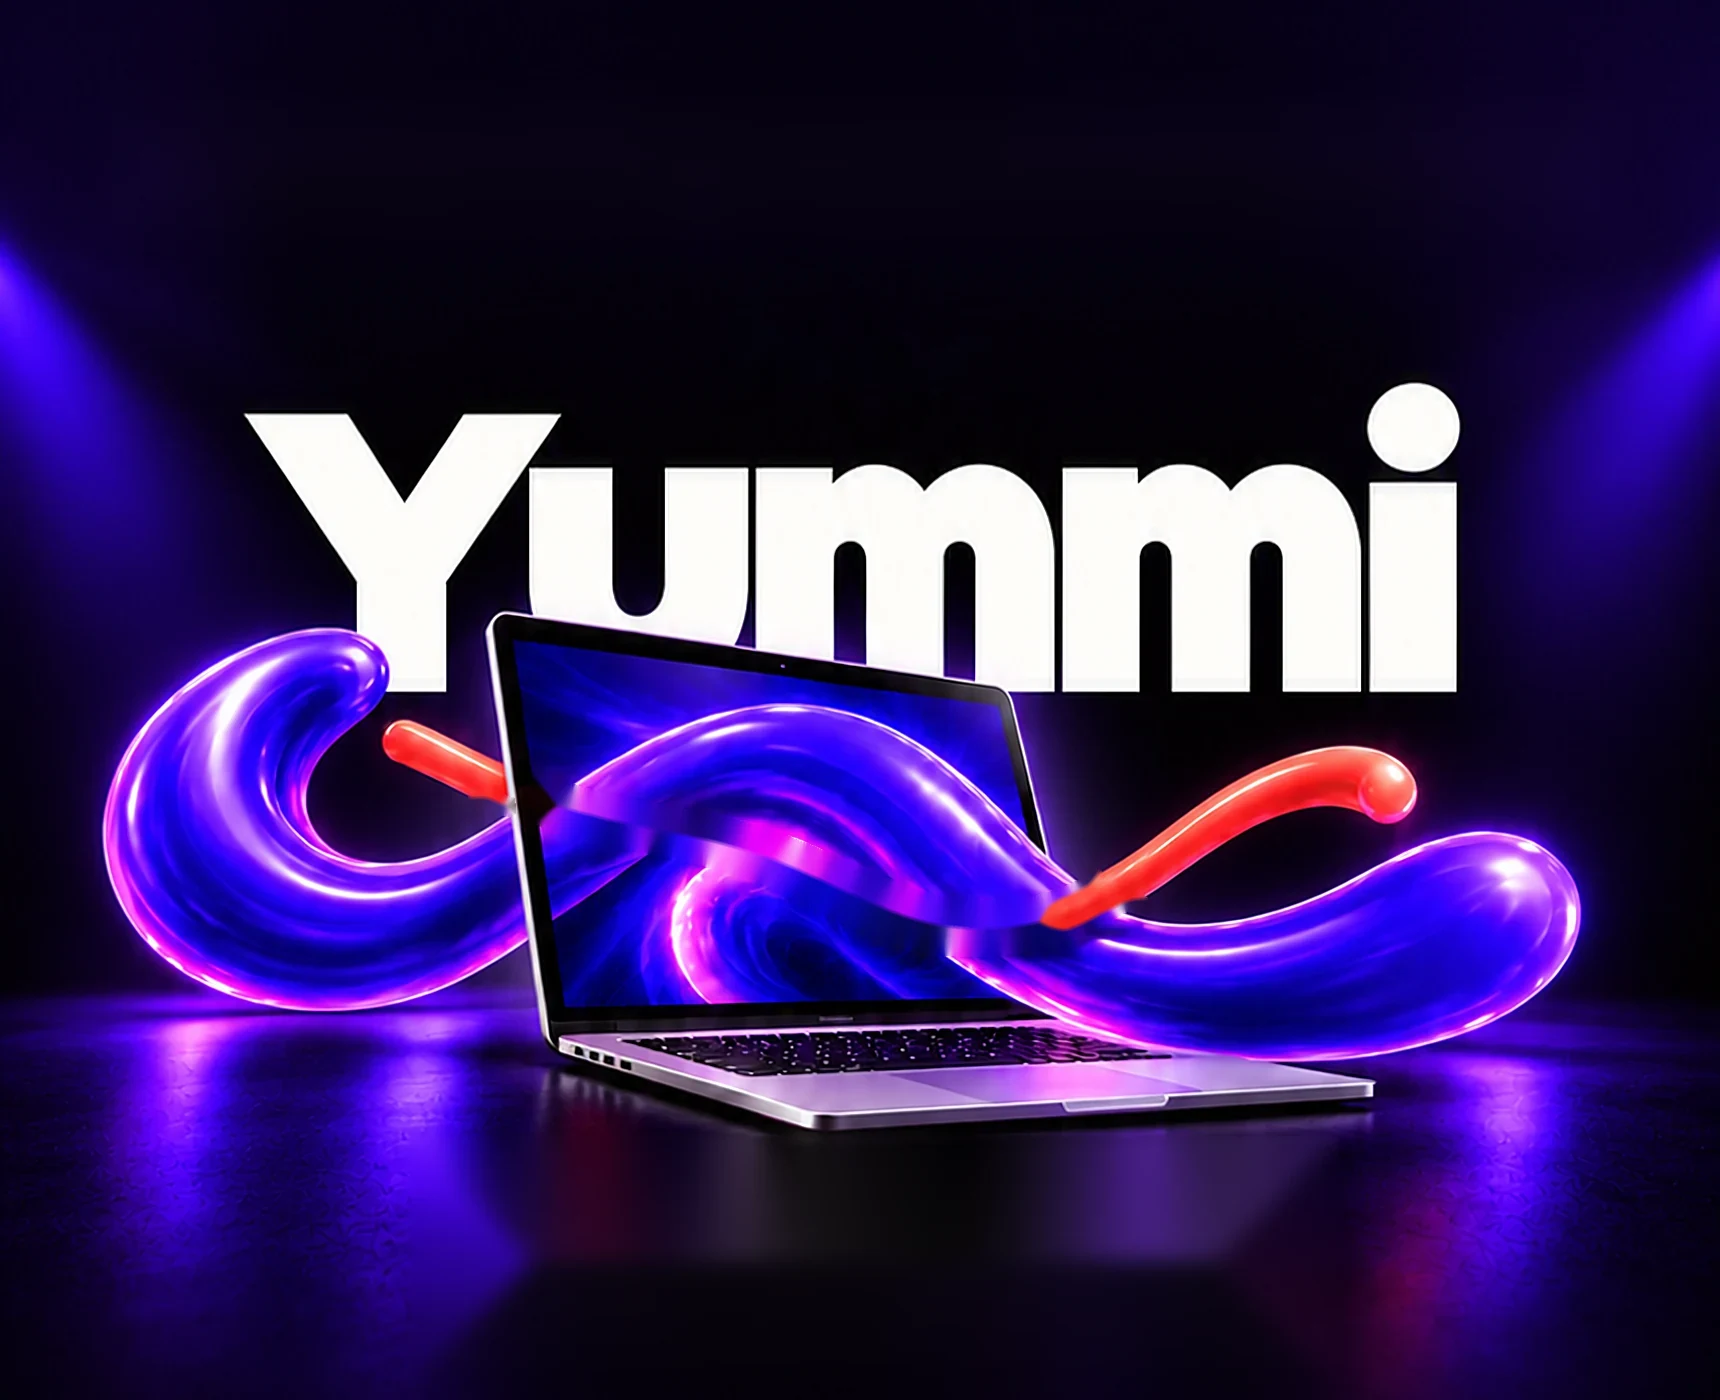
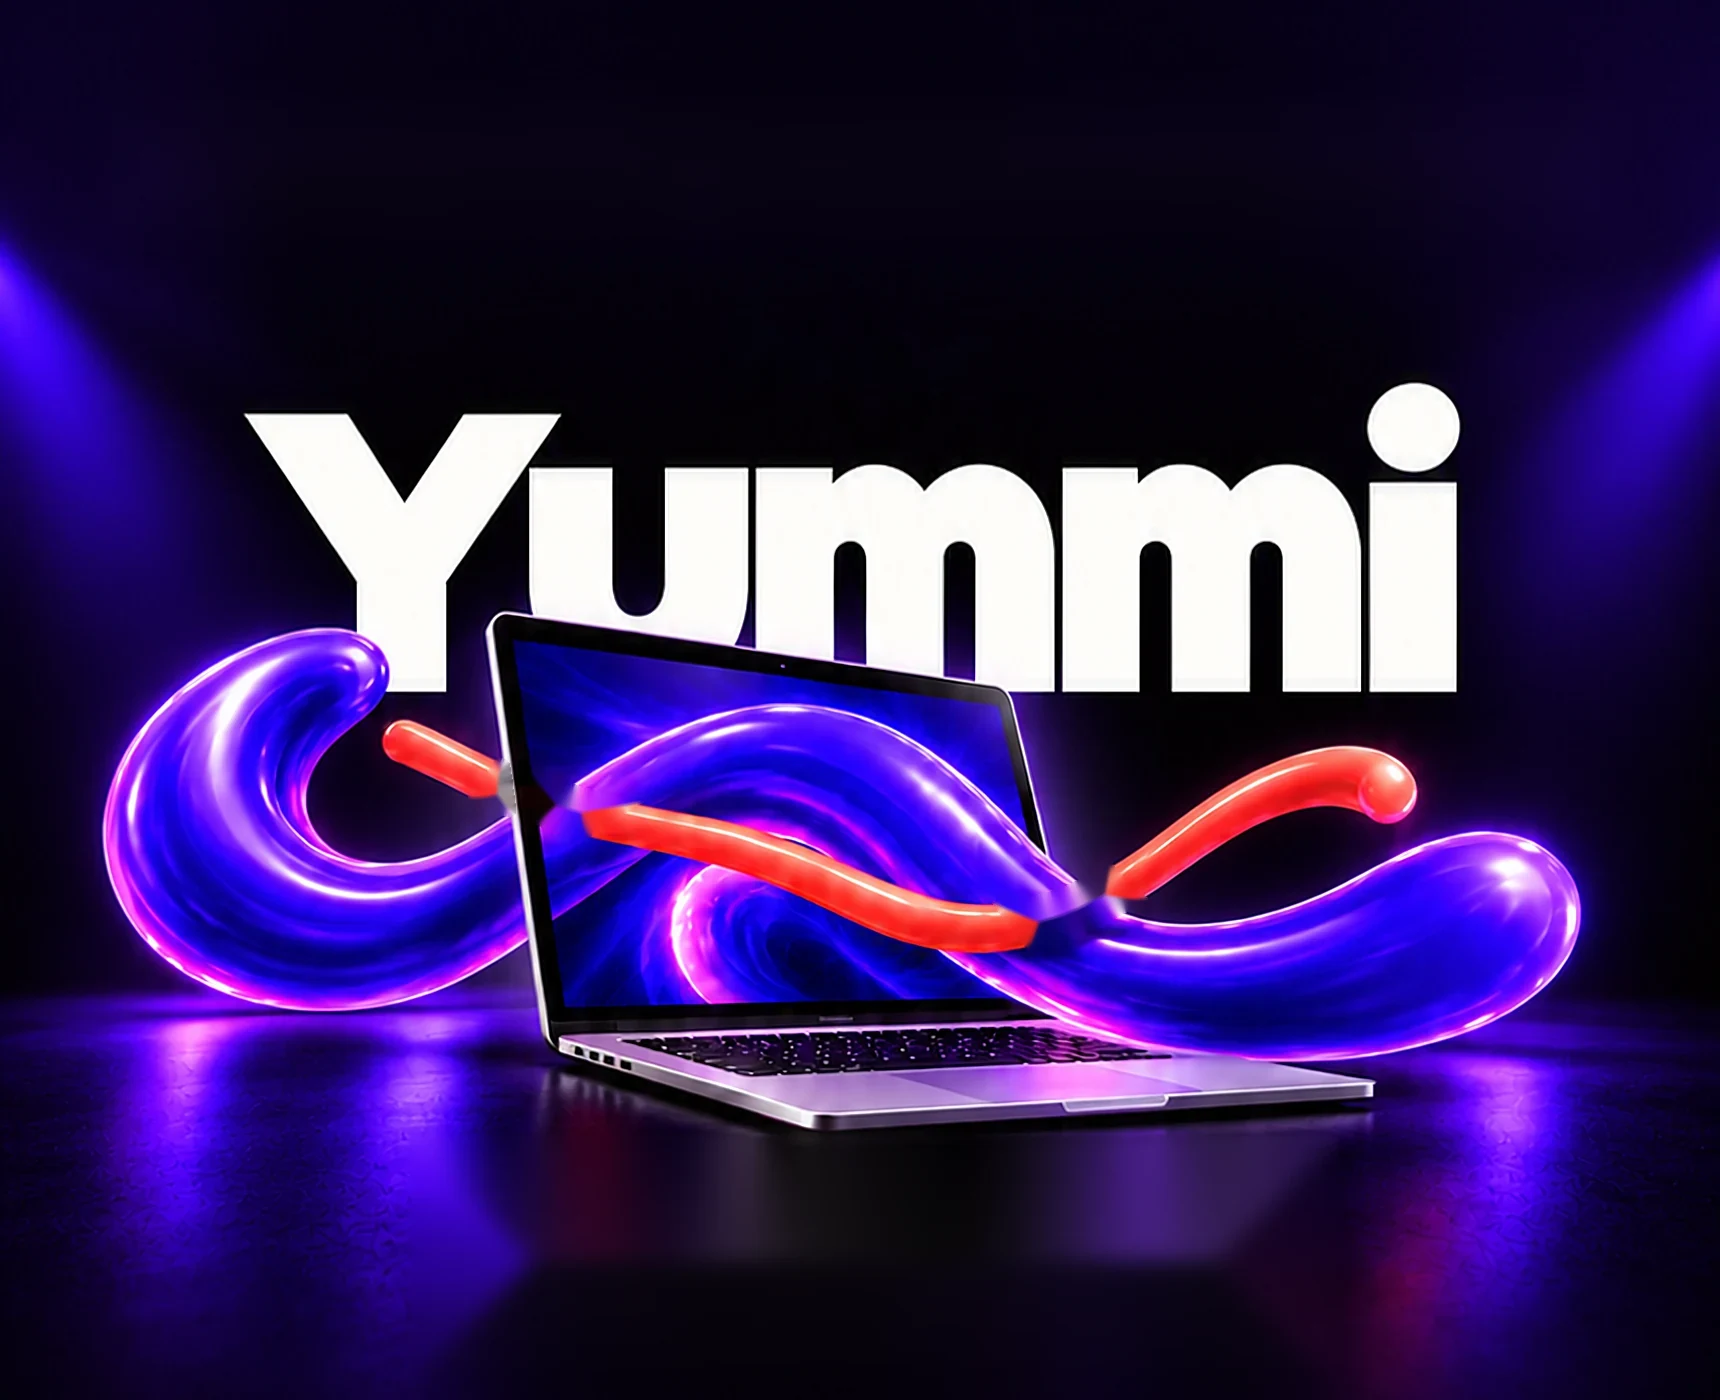
Hero: clean synthetic lid edge, snakes emerge from the screen and grow both ways
Claude-Session: https://claude.ai/code/session_01NTP9niN9fkNMbJSChYRcYE

Changed region(s): [[0.339, 0.5529, 0.6471, 0.7064], [0.2773, 0.5529, 0.3081, 0.5836]]

diff --git a/assets/js/main.js b/assets/js/main.js
@@ -155,14 +155,15 @@
     const pr = gl.createProgram();
     gl.attachShader(pr, sh(gl.VERTEX_SHADER, "attribute vec2 a;varying vec2 v;void main(){v=a*.5+.5;gl_Position=vec4(a,0.,1.);}"));
     gl.attachShader(pr, sh(gl.FRAGMENT_SHADER, `precision mediump float;varying vec2 v;
-uniform sampler2D plate,snk,orig,tm,al;uniform float p,f;
+uniform sampler2D plate,snk,orig,tm,al,wp;uniform float p,f;
 void main(){
   vec3 T=texture2D(tm,v).rgb, A=texture2D(al,v).rgb;
-  float w1=clamp((p-T.r)/.07,0.,1.)*A.r;
-  float q=clamp((p-.30)/.70,0.,1.);
-  float w2=clamp((q*1.07-T.g)/.07,0.,1.)*A.g;
+  float w1=clamp((p-T.r)/.045,0.,1.)*A.r;
+  float q=clamp((p-.22)/.78,0.,1.);
+  float w2=clamp((q*1.04-T.g)/.03,0.,1.)*A.g;
   vec3 o=texture2D(orig,v).rgb;
-  vec3 c=mix(texture2D(plate,v).rgb,texture2D(snk,v).rgb,w1);
+  vec3 c=mix(texture2D(plate,v).rgb,texture2D(wp,v).rgb,clamp(p/.10,0.,1.)*A.b);
+  c=mix(c,texture2D(snk,v).rgb,w1);
   c=mix(c,o,w2);
   gl_FragColor=vec4(mix(c,o,f),1.);}`));
     gl.linkProgram(pr); gl.useProgram(pr);
@@ -174,8 +175,8 @@ void main(){
     const base = "assets/img/hero/";
     const h = { p: 0, f: 0, started: false };
     const draw = () => { gl.uniform1f(P, h.p); gl.uniform1f(F, h.f); gl.drawArrays(gl.TRIANGLE_STRIP, 0, 4); };
-    h.ready = Promise.all([base + "plate.webp", base + "snakes.webp", img.currentSrc || img.src, base + "times.png", base + "alpha.png"].map(loadImg)).then(ims => {
-      ["plate", "snk", "orig", "tm", "al"].forEach((n, i) => {
+    h.ready = Promise.all([base + "plate.webp", base + "snakes.webp", img.currentSrc || img.src, base + "times.png", base + "alpha.png", base + "screen.webp"].map(loadImg)).then(ims => {
+      ["plate", "snk", "orig", "tm", "al", "wp"].forEach((n, i) => {
         gl.activeTexture(gl.TEXTURE0 + i);
         const t = gl.createTexture(); gl.bindTexture(gl.TEXTURE_2D, t);
         gl.texImage2D(gl.TEXTURE_2D, 0, gl.RGB, gl.RGB, gl.UNSIGNED_BYTE, ims[i]);
@@ -183,7 +184,8 @@ void main(){
         [gl.TEXTURE_WRAP_S, gl.TEXTURE_WRAP_T].forEach(k => gl.texParameteri(gl.TEXTURE_2D, k, gl.CLAMP_TO_EDGE));
         gl.uniform1i(gl.getUniformLocation(pr, n), i);
       });
-      gl.viewport(0, 0, cv.width, cv.height); draw();
+      gl.viewport(0, 0, cv.width, cv.height);
+      const hp = new URLSearchParams(location.search).get("hp"); if (hp !== null) { h.started = true; h.p = +hp; } draw();
       img.closest("picture").after(cv); img.closest("picture").style.display = "none";
     }).catch(() => { h.failed = true; });
     h.play = (delay = 0) => {
